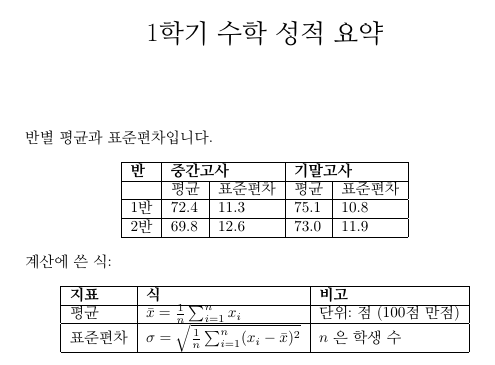
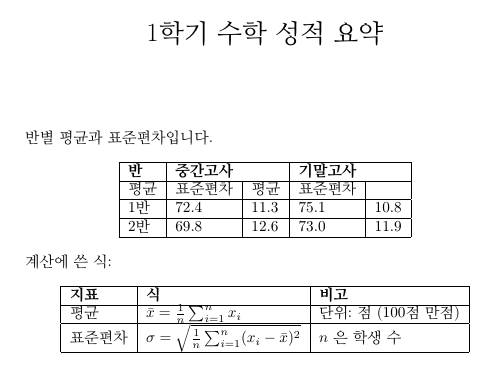
post(ko): 10-31 tables - section 3 shows live v15 output (row under a vertical merge shifts left, empty cell last), one-edit fix (move trailing & to front), image re-rendered; R99
Claude-Session: https://claude.ai/code/session_01XAo8o32kJdVCPcGQe7sVRk

Changed region(s): [[0.2424, 0.4521, 0.8485, 0.6329]]

diff --git a/_posts/2026-10-31-google-docs-table-to-latex-tabular.md b/_posts/2026-10-31-google-docs-table-to-latex-tabular.md
@@ -39,7 +39,7 @@ LaTeX 에서 표를 손으로 짜 본 분은 압니다. 칸마다 `&`, 줄마다
 \hline
 \textbf{반} & \multicolumn{2}{l|}{\textbf{중간고사}} & \multicolumn{2}{l|}{\textbf{기말고사}} \\
 \hline
- & 평균 & 표준편차 & 평균 & 표준편차 \\
+평균 & 표준편차 & 평균 & 표준편차 &  \\
 \hline
 1반 & 72.4 & 11.3 & 75.1 & 10.8 \\
 \hline
@@ -50,9 +50,20 @@ LaTeX 에서 표를 손으로 짜 본 분은 압니다. 칸마다 `&`, 줄마다
 ```
 
 - **가로로 합친 칸** 은 `\multicolumn{2}{l|}{…}` 이 됩니다. 칸 수가 맞으니 그대로 컴파일됩니다.
-- **세로로 합친 칸**("반")은 첫 줄에만 글자가 나오고, 사이드바와 파일 머리의 경고 목록에 "Table 1 has merged cells or uneven rows" 가 한 줄 붙습니다. `\multirow` 는 쓰지 않으므로 4절에서 한 줄로 채웁니다.
+- **세로로 합친 칸**("반")은 첫 줄에만 글자가 나오고, 사이드바와 파일 머리의 경고 목록에 "Table 1 has merged cells or uneven rows" 가 한 줄 붙습니다. 그 **아래 줄**(평균·표준편차)은 빈 칸이 맨 앞이 아니라 **맨 뒤** 에 붙어서 한 칸씩 왼쪽으로 밀립니다. 컴파일은 되지만 "평균" 이 "반" 아래에 옵니다(아래 그림).
 - **굵은 글씨** 는 `\textbf` 가 됩니다.
 - 모든 열이 왼쪽 정렬 `l`, 줄마다 `\hline`, 표 전체는 가운데(`center`)입니다.
+
+**밀린 줄은 한 군데만 고치면 됩니다.** 그 줄 끝의 `&` 를 줄 맨 앞으로 옮깁니다.
+
+```latex
+% 나온 줄
+평균 & 표준편차 & 평균 & 표준편차 &  \\
+% 고친 줄
+ & 평균 & 표준편차 & 평균 & 표준편차 \\
+```
+
+세로로 합친 칸이 있는 표의, 그 바로 아래 줄에만 생기는 일입니다. 경고가 붙은 표만 열어 보면 됩니다. "반" 을 두 줄에 걸쳐 가운데에 두는 `\multirow` 는 4절에 있습니다.
 
 두 번째 표입니다.
 
@@ -71,15 +82,15 @@ LaTeX 에서 표를 손으로 짜 본 분은 압니다. 칸마다 `&`, 줄마다
 - **칸 안 수식** 은 `$…$` 로 나옵니다. 구글 문서 수식 편집기로 넣었든, `$…$` 사이에 LaTeX 를 글자로 쳤든, LaTeXFlow 로 바꾼 수식 그림이든 같습니다. 칸 안에서는 디스플레이 수식도 문장 안 수식(`$…$`)으로 씁니다.
 - **칸 안 줄바꿈** 은 띄어쓰기 한 칸이 됩니다. "단위: 점 (100점 만점)".
 
-받은 그대로 pdfLaTeX 로 컴파일하면 이렇습니다.
+받은 그대로(밀린 줄을 고치기 전) pdfLaTeX 로 컴파일하면 이렇습니다.
 
-![내보낸 그대로 컴파일한 PDF: 첫 번째 표는 왼쪽 정렬, 머리글 반 아래 빈 칸, 중간고사·기말고사가 두 칸에 걸침. 두 번째 표는 칸 안에 작은 크기의 평균과 표준편차 식](/assets/img/posts/2026-10-31/table-01-exported.png){: width="480" }
+![내보낸 그대로 컴파일한 PDF: 첫 번째 표는 왼쪽 정렬이고, 둘째 줄의 평균·표준편차가 한 칸씩 왼쪽으로 밀려 평균이 반 아래에 오고 맨 오른쪽 칸이 비어 있음. 중간고사·기말고사는 두 칸에 걸침. 두 번째 표는 칸 안에 작은 크기의 평균과 표준편차 식](/assets/img/posts/2026-10-31/table-01-exported.png){: width="480" }
 
 ## 4. 몇 줄로 다듬기
 
 여기서부터는 LaTeX 쪽 취향입니다. 각각 한두 줄이고, 아래 결과는 모두 실제로 컴파일한 것입니다.
 
-**세로 병합.** 머리말에 `\usepackage{multirow}` 를 넣고, 첫 칸을 `\multirow` 로 바꾼 뒤, 두 줄 사이 선을 "반" 열만 빼고 긋습니다.
+**세로 병합.** 3절에서 고친 줄은 그대로 두고, 머리말에 `\usepackage{multirow}` 를 넣고, 첫 칸을 `\multirow` 로 바꾼 뒤, 두 줄 사이 선을 "반" 열만 빼고 긋습니다.
 
 ```latex
 \multirow{2}{*}{\textbf{반}} & \multicolumn{2}{c|}{\textbf{중간고사}} & \multicolumn{2}{c|}{\textbf{기말고사}} \\
